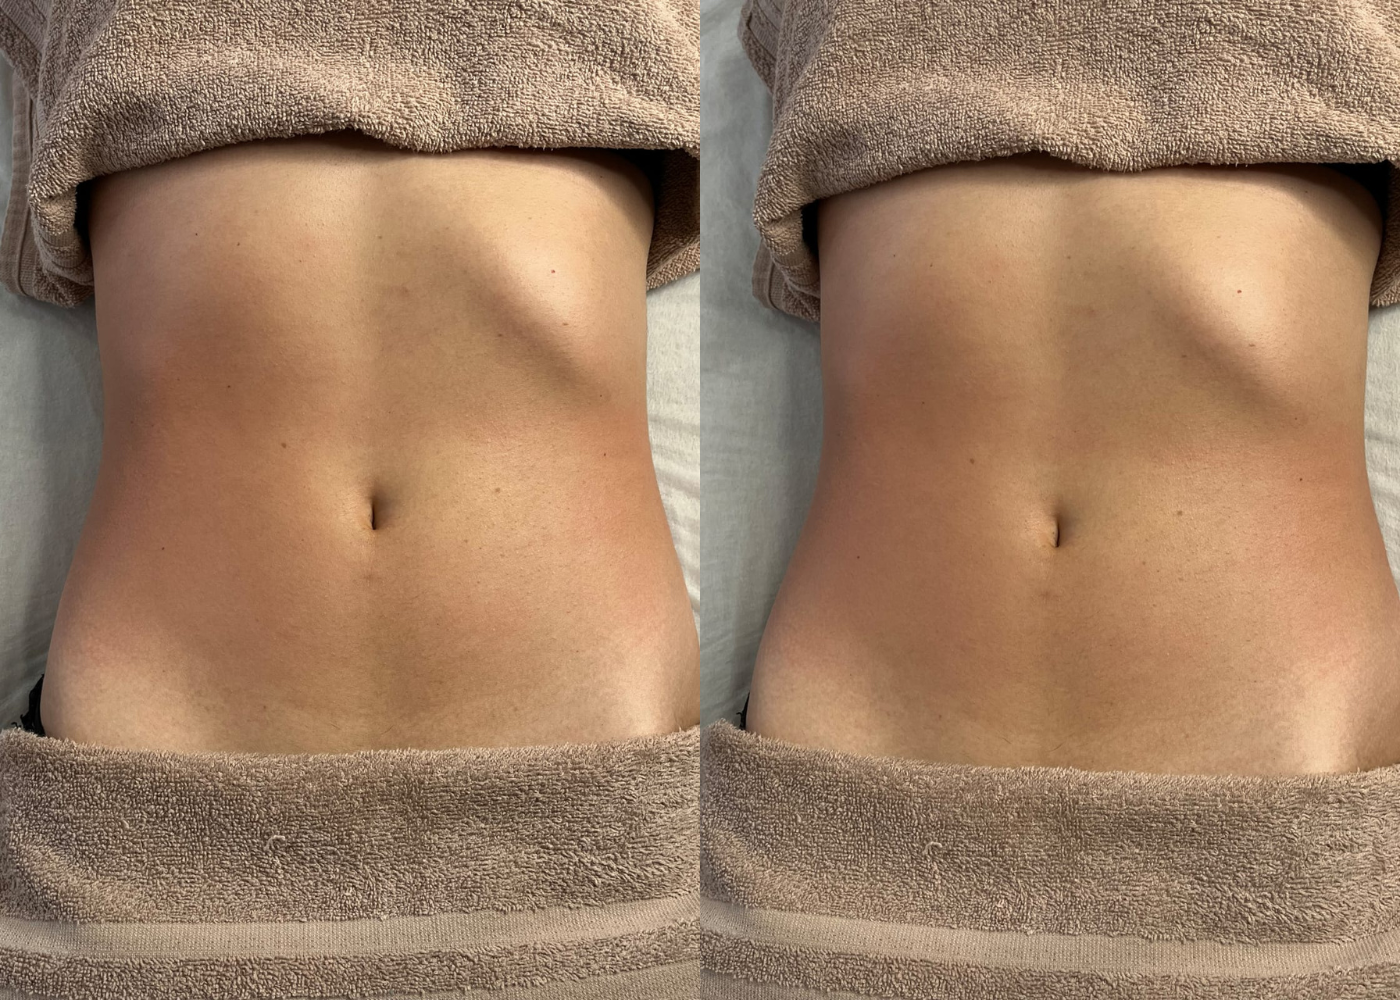
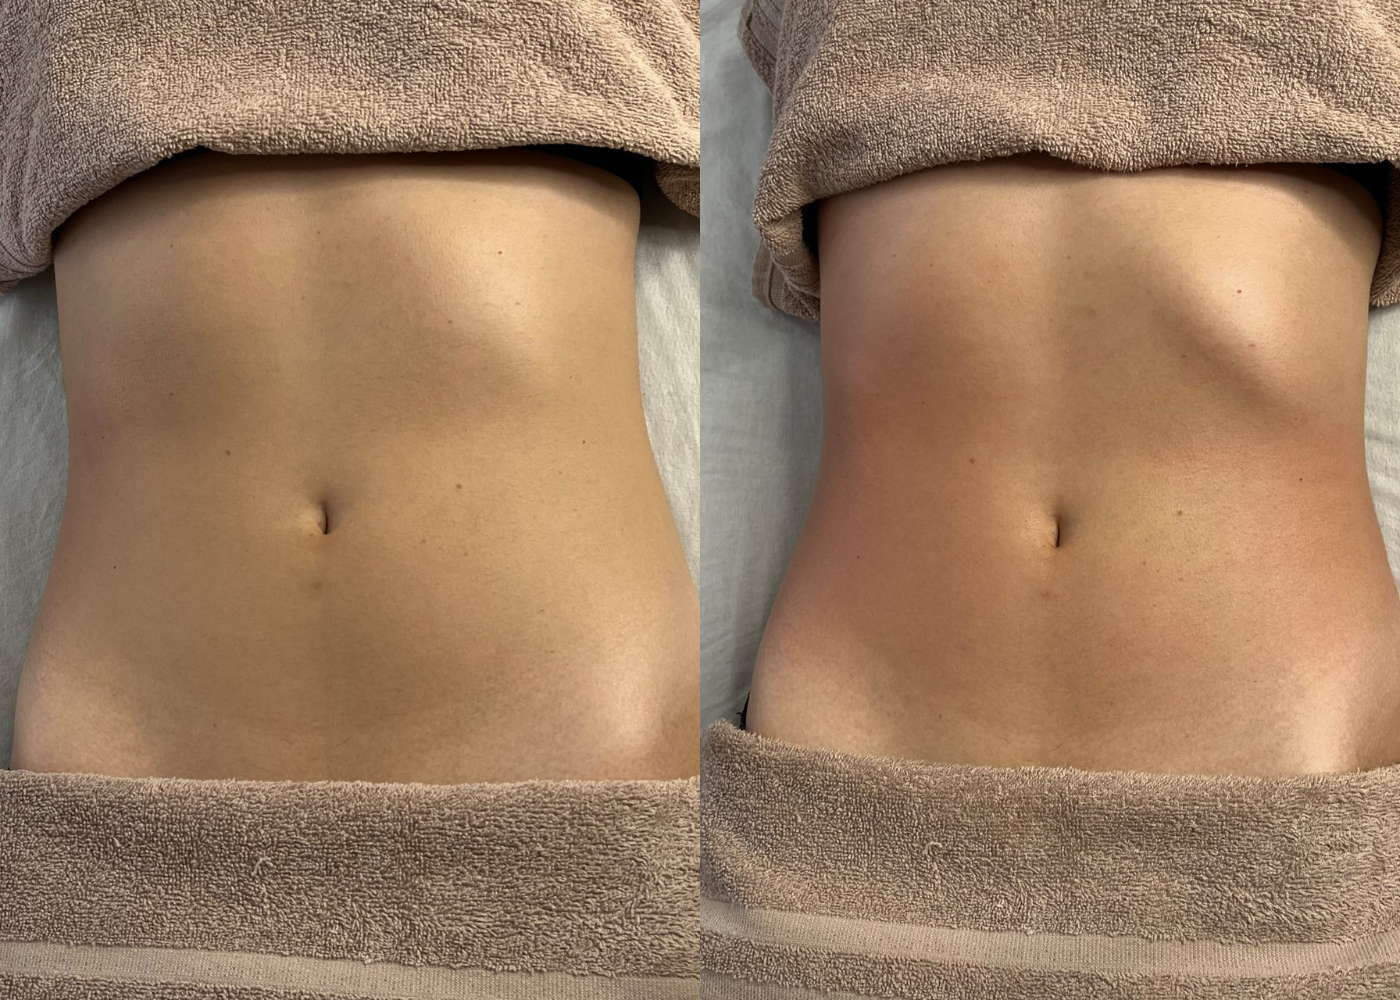
fix: link WhatsApp, Instagram e imagem Resultados 3 atualizados
- Botão WhatsApp agora aponta para o número real (5511963629420)
- Instagram corrigido para @marttaesteticaebemestar
- Imagem Resultados 3 substituída

Changed region(s): [[0.0, 0.0, 0.5221, 1.0], [0.1536, 0.279, 0.1843, 0.341], [0.3379, 0.682, 0.3686, 0.713]]

diff --git a/index.html b/index.html
@@ -461,7 +461,7 @@
       <span class="eyebrow" data-aos="fade-up">Vamos conversar</span>
       <h2 class="section-title" data-aos="fade-up" data-aos-delay="80">Você merece esse<br>momento de cuidado.</h2>
       <p class="section-desc" data-aos="fade-up" data-aos-delay="160">Invista em você. Um espaço só seu, uma experiência que cuida da sua pele e da sua autoestima ao mesmo tempo.</p>
-      <a href="https://wa.me/55XXXXXXXXXXX?text=Ol%C3%A1%2C%20Marta!%20Gostaria%20de%20agendar%20um%20procedimento." class="btn btn--gold-pill" target="_blank" rel="noopener noreferrer" data-aos="fade-up" data-aos-delay="240">
+      <a href="https://wa.me/5511963629420?text=Ol%C3%A1%2C%20Marta!%20Gostaria%20de%20agendar%20um%20procedimento." class="btn btn--gold-pill" target="_blank" rel="noopener noreferrer" data-aos="fade-up" data-aos-delay="240">
         <svg width="20" height="20" viewBox="0 0 24 24" fill="currentColor" xmlns="http://www.w3.org/2000/svg"><path d="M17.472 14.382c-.297-.149-1.758-.867-2.03-.967-.273-.099-.471-.148-.67.15-.197.297-.767.966-.94 1.164-.173.199-.347.223-.644.075-.297-.15-1.255-.463-2.39-1.475-.883-.788-1.48-1.761-1.653-2.059-.173-.297-.018-.458.13-.606.134-.133.298-.347.446-.52.149-.174.198-.298.298-.497.099-.198.05-.371-.025-.52-.075-.149-.669-1.612-.916-2.207-.242-.579-.487-.5-.669-.51-.173-.008-.371-.01-.57-.01-.198 0-.52.074-.792.372-.272.297-1.04 1.016-1.04 2.479 0 1.462 1.065 2.875 1.213 3.074.149.198 2.096 3.2 5.077 4.487.709.306 1.262.489 1.694.625.712.227 1.36.195 1.871.118.571-.085 1.758-.719 2.006-1.413.248-.694.248-1.289.173-1.413-.074-.124-.272-.198-.57-.347m-5.421 7.403h-.004a9.87 9.87 0 0 1-5.031-1.378l-.361-.214-3.741.982.998-3.648-.235-.374a9.86 9.86 0 0 1-1.51-5.26c.001-5.45 4.436-9.884 9.888-9.884 2.64 0 5.122 1.03 6.988 2.898a9.825 9.825 0 0 1 2.893 6.994c-.003 5.45-4.437 9.884-9.885 9.884m8.413-18.297A11.815 11.815 0 0 0 12.05 0C5.495 0 .16 5.335.157 11.892c0 2.096.547 4.142 1.588 5.945L.057 24l6.305-1.654a11.882 11.882 0 0 0 5.683 1.448h.005c6.554 0 11.89-5.335 11.893-11.893a11.821 11.821 0 0 0-3.48-8.413z"/></svg>
         Agendar pelo WhatsApp
       </a>
@@ -475,7 +475,7 @@
         <img src="Imagens/logo.png" alt="Martta Estética & Bem Estar" class="footer__logo-img">
         <p class="footer__bio">Estética e bem-estar com técnica, segurança e cuidado personalizado. Aqui sua pele está em boas mãos.</p>
         <div class="footer__socials">
-          <a href="https://www.instagram.com/marttaesteticabemestar" target="_blank" rel="noopener noreferrer" class="footer__social" aria-label="Instagram">
+          <a href="https://www.instagram.com/marttaesteticaebemestar" target="_blank" rel="noopener noreferrer" class="footer__social" aria-label="Instagram">
             <svg width="18" height="18" viewBox="0 0 24 24" fill="none" stroke="currentColor" stroke-width="1.8" stroke-linecap="round" stroke-linejoin="round"><rect x="2" y="2" width="20" height="20" rx="5" ry="5"/><path d="M16 11.37A4 4 0 1 1 12.63 8 4 4 0 0 1 16 11.37z"/><line x1="17.5" y1="6.5" x2="17.51" y2="6.5"/></svg>
           </a>
         </div>
